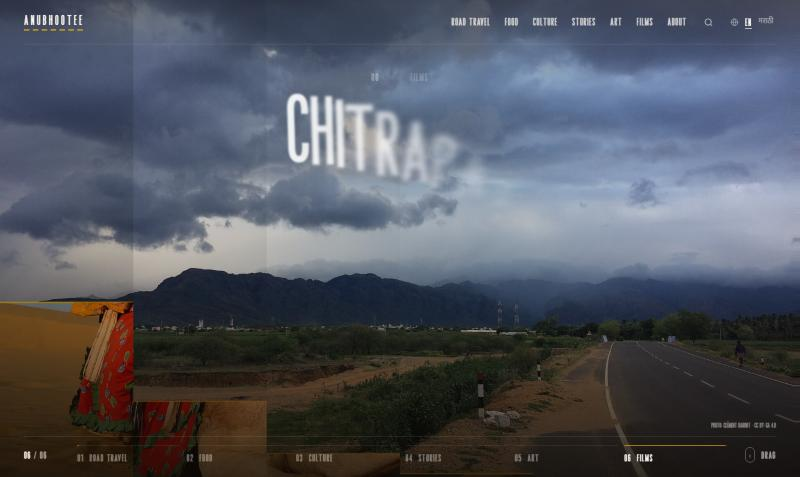
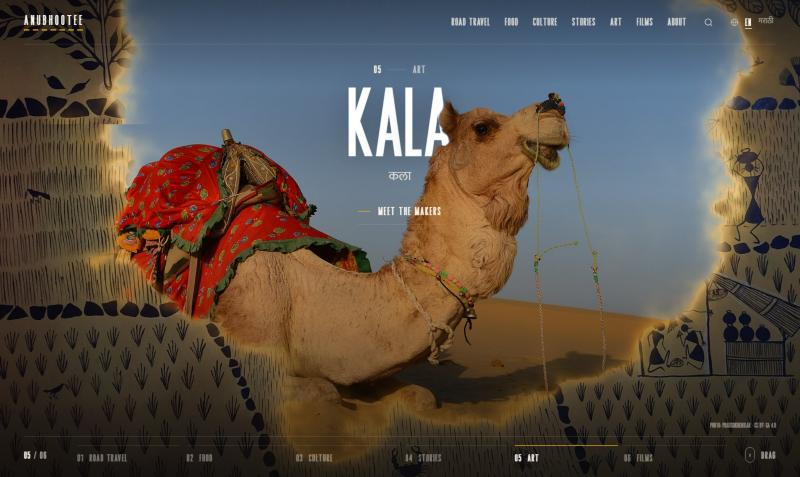
Homepage motion: spring entrance fade, hover zoom, shared-layout page transitions
- Photo transition styles, chosen with ANU_TRANSITION (or ?fx= to preview):
  spring (default, Motion spring fade), ink, columns, mandala, shutter, mosaic, dolly.
  Photo and depth cutout always share the same mask, so the subject stays in front of the title.
- Smooth hover zoom: hovering a chapter link springs the photo closer; gentle mouse drift
  (off on touch and for reduced motion)
- Shared-layout transitions across pages (View Transitions API, like Framer Motion layoutId):
  chapter title -> section heading, story card photo/title -> story hero

diff --git a/anubhootee-web/resources/js/showcase.js b/anubhootee-web/resources/js/showcase.js
@@ -1,10 +1,11 @@
 /* Anubhootee: homepage chapter showcase
  *
  * Transition between chapters:
- *  - Photo: a "column wipe". The new photo rises into place in six staggered vertical
- *    slices, led by a thin turmeric line, while the old photo eases back and darkens (WebGL).
+ *  - Photo: an "ink spread". The new photo blooms out from behind the title like ink soaking
+ *    into paper, with a ragged edge and a warm turmeric glow; the old photo pushes towards you
+ *    and darkens, the new one settles back from a slight zoom (WebGL).
  *  - Depth effect: the photo's subject (AI cutout, see `php artisan anubhootee:depth`) is drawn on
- *    a second canvas above the big title, with exactly the same wipe, so it stays in front of the title.
+ *    a second canvas above the big title, with exactly the same ink mask, so it stays in front of the title.
  *  - Text: animated with Motion (Framer Motion's engine). Letters of the old title lift away with blur;
  *    the new title's letters spring up one by one with a 3D tilt; label, Marathi word and link follow.
  *  - Drag / wheel / arrow keys / the numbered bar all move between chapters. Dragging scrubs the wipe.
@@ -31,6 +32,10 @@ import { animate, stagger } from 'motion';
 	var pad = function (n) { return String(n).padStart(2, '0'); };
 	var clamp = function (v, a, b) { return Math.max(a, Math.min(b, v)); };
 	var EASE_OUT = [0.22, 1, 0.36, 1], EASE_IN = [0.55, 0, 0.75, 0.2], EASE_IN_OUT = [0.76, 0, 0.24, 1];
+
+	/* Photo transition style: ANU_TRANSITION in .env, or ?fx=name in the URL to preview */
+	var FX_NAMES = ['ink', 'columns', 'mandala', 'shutter', 'mosaic', 'dolly', 'spring'];
+	var FX = Math.max(0, FX_NAMES.indexOf(new URLSearchParams(location.search).get('fx') || data.fx || 'ink'));
 
 	/* Same shading as .anu-sc-shade, for the no-WebGL cutout fallback */
 	var SHADE_CSS = 'linear-gradient(0deg, rgba(11,9,7,.78) 0%, rgba(11,9,7,.38) 30%, rgba(11,9,7,0) 60%),'
@@ -115,12 +120,13 @@ import { animate, stagger } from 'motion';
 		markActive(i);
 		busy = true;
 		var remaining = 1 - startP;
-		wipeAnim = animate(startP, 1, {
-			duration: reduced ? 0 : 1.5 * Math.max(0.35, remaining),
-			ease: startP > 0 ? EASE_OUT : EASE_IN_OUT,
-			onUpdate: function (v) { p = v; },
-			onComplete: finish,
-		});
+		var opts = FX === 6 && !reduced
+			// Spring entrance: a real spring (it overshoots slightly, then settles)
+			? { type: 'spring', stiffness: 55, damping: 11, mass: 1, restDelta: 0.001 }
+			: { duration: reduced ? 0 : 1.5 * Math.max(0.35, remaining), ease: startP > 0 ? EASE_OUT : EASE_IN_OUT };
+		opts.onUpdate = function (v) { p = v; };
+		opts.onComplete = finish;
+		wipeAnim = animate(startP, 1, opts);
 	}
 	function goTo(i) {
 		i = clamp(i, 0, N - 1);
@@ -172,6 +178,28 @@ import { animate, stagger } from 'motion';
 		if (['ArrowUp', 'PageUp'].indexOf(e.key) > -1) { e.preventDefault(); goTo(active - 1); }
 	});
 
+	/* ---------- Smooth hover zoom (Motion spring) + gentle mouse drift ----------
+	   Hovering the chapter link eases the photo (and its depth cutout) closer; the photo also
+	   drifts a little with the pointer. Both are shader uniforms, so photo and cutout stay aligned. */
+	var hover = { v: 0 }, hoverAnim = null;
+	var mouse = { x: 0, y: 0, tx: 0, ty: 0 };
+	function setHover(on) {
+		if (reduced) return;
+		if (hoverAnim) hoverAnim.stop();
+		hoverAnim = animate(hover.v, on ? 1 : 0, { type: 'spring', stiffness: 120, damping: 20, onUpdate: function (v) { hover.v = v; } });
+	}
+	Array.prototype.forEach.call(front.querySelectorAll('.anu-sc-more'), function (a) {
+		a.addEventListener('pointerenter', function () { setHover(true); });
+		a.addEventListener('pointerleave', function () { setHover(false); });
+		a.addEventListener('focus', function () { setHover(true); });
+		a.addEventListener('blur', function () { setHover(false); });
+	});
+	window.addEventListener('pointermove', function (e) {
+		if (reduced || e.pointerType === 'touch') return;
+		mouse.tx = (e.clientX / window.innerWidth) * 2 - 1;
+		mouse.ty = (e.clientY / window.innerHeight) * 2 - 1;
+	});
+
 	/* ---------- Depth on/off per chapter (like iOS: off when the subject hides too much of the title) ---------- */
 	var MAX_COVER = 0.42;
 	var depthOn = CH.map(function () { return false; });
@@ -201,38 +229,99 @@ import { animate, stagger } from 'motion';
 
 	/* ---------- WebGL ---------- */
 	var VS = 'attribute vec2 p; varying vec2 vUv; void main(){ vUv = p*0.5+0.5; gl_Position = vec4(p,0.,1.); }';
+	/* Transition styles (uniform fx):
+	   0 ink      – the new photo blooms out from behind the title like ink, ragged edge, warm glow
+	   1 columns  – six vertical slices rise into place, led by a turmeric line
+	   2 mandala  – an eight-petal rangoli shape opens and turns from behind the title
+	   3 shutter  – diagonal blades sweep across like a camera shutter
+	   4 mosaic   – tiles flip to the new photo in a wave from the title, with a pixel dissolve
+	   5 dolly    – a push through the old photo with radial motion blur; the new one pulls into focus
+	   Both the photo and the depth cutout use the same wipe() and coords(), so they always line up. */
 	var COMMON = [
 		'precision highp float;',
 		'varying vec2 vUv;',
 		'uniform sampler2D t0, t1;',
 		'uniform vec2 s0, s1, res;',
-		'uniform float prog, dir, time, on0, on1;',
+		'uniform float prog, dir, time, on0, on1, fx, hov;',
+		'uniform vec2 mouse;', // -1..1 pointer position, for the hover drift
 		'vec2 cover(vec2 uv, vec2 img){ float ra = res.x/res.y, ri = img.x/img.y; vec2 sc = ra > ri ? vec2(1., ri/ra) : vec2(ra/ri, 1.); return (uv-.5)*sc + .5; }',
-		'float ease(float t){ return t < .5 ? 4.*t*t*t : 1. - pow(-2.*t + 2., 3.)/2.; }',
-		// Column wipe: 6 slices, each starting a little after the previous one
-		'void wipe(out float m, out float cp, out float edge){',
-		'  float COLS = 6., STEP = .11;',
-		'  float col = floor(vUv.x*COLS); float k = dir > 0. ? col : COLS-1.-col;',
-		'  cp = ease(clamp(prog*(1. + (COLS-1.)*STEP) - k*STEP, 0., 1.));',
-		'  edge = dir > 0. ? cp*1.004 : 1. - cp*1.004;',
-		'  float aa = 1.5/res.y;',
-		'  m = dir > 0. ? 1. - smoothstep(edge-aa, edge+aa, vUv.y) : smoothstep(edge-aa, edge+aa, vUv.y);',
+		'float ease(float t){ t = clamp(t, 0., 1.); return t < .5 ? 4.*t*t*t : 1. - pow(-2.*t + 2., 3.)/2.; }',
+		'float h(vec2 p){ return fract(sin(dot(p, vec2(127.1,311.7)))*43758.5453); }',
+		'float n(vec2 p){ vec2 i=floor(p), f=fract(p); f=f*f*(3.-2.*f); return mix(mix(h(i),h(i+vec2(1,0)),f.x), mix(h(i+vec2(0,1)),h(i+vec2(1,1)),f.x), f.y); }',
+		'float fbm(vec2 p){ float v=0., a=.5; for(int i=0;i<5;i++){ v+=a*n(p); p*=2.07; a*=.5; } return v; }',
+		'vec2 rot(vec2 p, float a){ float c = cos(a), s = sin(a); return vec2(c*p.x - s*p.y, s*p.x + c*p.y); }',
+		'const vec2 ORIGIN = vec2(.5, .74);', // behind the title
+		// m = how much of the new photo shows (0..1), cp = eased progress, glow = edge highlight for the photo layer
+		'void wipe(out float m, out float cp, out float glow){',
+		'  cp = ease(prog); glow = 0.;',
+		'  float A = res.x/res.y; float live = sin(3.14159*clamp(prog, 0., 1.)); float maxd = length(vec2(A, 1.));',
+		'  vec2 o = fx == 0. ? vec2(.5, dir > 0. ? .74 : .26) : ORIGIN;',
+		'  vec2 d2 = (vUv - o) * vec2(A, 1.); float d = length(d2); float th = atan(d2.y, d2.x);',
+		'  if (fx < .5) {', // ink
+		'    float f = d + fbm(d2*3.2 + vec2(prog*1.5, -prog))*.38 + fbm(vec2(th*2.6, d*4. - prog*3.))*.22;',
+		'    float e = f - (cp*(maxd + .7) - .05);',
+		'    m = 1. - smoothstep(-.035, .01, e); glow = live*exp(-abs(e + .012)*38.)*.55;',
+		'  } else if (fx < 1.5) {', // columns
+		'    float col = floor(vUv.x*6.); float k = dir > 0. ? col : 5.-col;',
+		'    float c = ease(clamp(prog*1.55 - k*.11, 0., 1.)); float e = dir > 0. ? c*1.004 : 1. - c*1.004; float aa = 1.5/res.y;',
+		'    m = dir > 0. ? 1. - smoothstep(e-aa, e+aa, vUv.y) : smoothstep(e-aa, e+aa, vUv.y);',
+		'    glow = step(.001, c)*step(c, .999)*(1. - smoothstep(0., 2.2/res.y, abs(vUv.y - e)))*1.2;',
+		'  } else if (fx < 2.5) {', // mandala
+		'    float r0 = (1. - cp)*1.2*dir;',
+		'    float petal = 1. + .2*cos(8.*(th + r0)) + .07*cos(16.*(th - r0*.5));',
+		'    float e = d/petal - (cp*(maxd*1.4 + .05) - .02);',
+		'    m = 1. - smoothstep(-.002, .002, e);',
+		'    glow = live*((1. - smoothstep(0., .005, abs(e)))*1.3 + exp(-abs(e)*55.)*.22);',
+		'  } else if (fx < 3.5) {', // shutter
+		'    vec2 q = (vUv - .5)*vec2(A, 1.); vec2 ax = normalize(vec2(1., .55)); vec2 ay = vec2(-ax.y, ax.x);',
+		'    float half_ = .5*(abs(A*ax.x) + abs(ax.y)), halfT = .5*(abs(A*ay.x) + abs(ay.y));',
+		'    float s = (dot(q, ax) + half_)/(2.*half_), t = (dot(q, ay) + halfT)/(2.*halfT);',
+		'    float bi = floor(clamp(t, 0., .999)*7.); float k = dir > 0. ? bi : 6.-bi;',
+		'    float c = ease(clamp(prog*1.48 - k*.08, 0., 1.)); float e = dir > 0. ? c : 1. - c; float aa = .0015;',
+		'    m = dir > 0. ? 1. - smoothstep(e-aa, e+aa, s) : smoothstep(e-aa, e+aa, s);',
+		'    glow = step(.001, c)*step(c, .999)*(1. - smoothstep(0., .003, abs(s - e)))*1.2;',
+		'  } else if (fx < 4.5) {', // mosaic
+		'    vec2 g = vec2(22.*A, 22.); vec2 cell = floor(vUv*g); vec2 cc = (cell + .5)/g;',
+		'    float th_ = length((cc - ORIGIN)*vec2(A, 1.))*.45 + h(cell)*.35;',
+		'    float front = cp*1.15 - .05;',
+		'    m = step(th_, front);',
+		'    glow = live*(1. - smoothstep(0., .07, abs(th_ - front)))*.55;',
+		'  } else if (fx < 5.5) {', // dolly
+		'    m = smoothstep(.42, .58, cp);',
+		'    glow = pow(live, 10.)*.3;',
+		'  } else {', // spring: soft fade; the spring overshoot shows in coords()
+		'    m = smoothstep(0., .75, clamp(prog, 0., 1.));',
+		'  }',
 		'}',
 		'void coords(float cp, out vec2 ua, out vec2 ub){',
 		'  vec2 base = (vUv-.5)*(1. - .03*sin(time*.12)) + .5;', // slow breathing zoom
-		'  ua = (base-.5)*(1. - cp*.07) + .5;',                   // old photo eases back
-		'  ub = base + vec2(0., dir*(1.-cp)*.2);',                // new photo rises (or falls) into place
+		'  base = (base-ORIGIN)*(1. - hov*.045) + ORIGIN - mouse*vec2(.012, -.008)*(.35 + hov);', // hover zoom + drift
+		'  if (fx > 3.5 && fx < 4.5) {',                          // mosaic: pixel dissolve in the middle of the move
+		'    float px = sin(3.14159*clamp(prog, 0., 1.)); float A = res.x/res.y;',
+		'    if (px > .02) { float q = mix(900., 22., pow(px, .6)); vec2 g = vec2(q*A, q); base = (floor(base*g) + .5)/g; }',
+		'  }',
+		'  if (fx < .5) { ua = (base-.5)*(1. - cp*.12) + .5; ub = (base-.5)*(1.14 - cp*.14) + .5; }',
+		'  else if (fx < 1.5) { ua = (base-.5)*(1. - cp*.07) + .5; ub = base + vec2(0., dir*(1.-cp)*.2); }',
+		'  else if (fx < 2.5) { ua = (base-.5)*(1. - cp*.1) + .5; ub = rot((base-ORIGIN)*(1.12 - .12*cp), (1.-cp)*.22*dir) + ORIGIN; }',
+		'  else if (fx < 3.5) { vec2 sl = vec2(.55, .3)*dir; ua = base + sl*cp*.06; ub = base - sl*(1.-cp)*.14; }',
+		'  else if (fx < 4.5) { ua = base; ub = base; }',
+		'  else if (fx < 5.5) { ua = (base-ORIGIN)*(1. - cp*.45) + ORIGIN; ub = (base-ORIGIN)*(.62 + .38*cp) + ORIGIN; }',
+		'  else { ua = (base-.5)*(1. - clamp(prog, 0., 1.)*.05) + .5; ub = (base-.5)*(1. + (1. - prog)*.14) + .5; }', // spring: settles (and overshoots) from a zoom
 		'}',
+		// Radial motion blur towards the title (dolly only), identical for photo and cutout
+		'vec4 tap(sampler2D t, vec2 uv, vec2 sz, float k){',
+		'  if (k < .0005) return texture2D(t, cover(uv, sz));',
+		'  vec4 acc = vec4(0.); for (int i = 0; i < 8; i++) { acc += texture2D(t, cover(mix(uv, ORIGIN, float(i)/7.*k), sz)); } return acc/8.;',
+		'}',
+		'float blurK(float cp){ return (fx > 4.5 && fx < 5.5) ? sin(3.14159*cp)*.09 : 0.; }', // dolly only
 		'vec3 grade(vec3 col){ col = mix(col, col*vec3(1.04,.99,.94), .4); float v = smoothstep(1.3, .4, length(vUv-.5)*1.4); return col*mix(.75, 1., v); }'
 	].join('\n');
 	var FS_PHOTO = COMMON + [
-		'void main(){ float m, cp, edge; wipe(m, cp, edge); vec2 ua, ub; coords(cp, ua, ub);',
-		'  vec3 a = texture2D(t0, cover(ua, s0)).rgb * (1. - cp*.5);',
-		'  vec3 b = texture2D(t1, cover(ub, s1)).rgb;',
+		'void main(){ float m, cp, glow; wipe(m, cp, glow); vec2 ua, ub; coords(cp, ua, ub); float k = blurK(cp);',
+		'  vec3 a = tap(t0, ua, s0, k).rgb * (1. - cp*.55);',
+		'  vec3 b = tap(t1, ub, s1, k).rgb;',
 		'  vec3 col = grade(mix(a, b, m));',
-		'  float live = step(.001, cp) * step(cp, .999);',          // turmeric line on the moving edge
-		'  float line = live * (1. - smoothstep(0., 2.2/res.y, abs(vUv.y - edge)));',
-		'  col = mix(col, vec3(.96,.72,0.), line*.95);',
+		'  col += vec3(.96,.62,.08) * glow;',                    // turmeric edge light
 		'  gl_FragColor = vec4(col, 1.);',
 		'}'
 	].join('\n');
@@ -242,9 +331,9 @@ import { animate, stagger } from 'motion';
 		'  float r = .32*(1.-clamp(length(vec2((vUv.x-.5)/.6,(yt-.26)/.4)),0.,1.));',
 		'  float t = yt < .18 ? mix(.45,0.,yt/.18) : 0.;',
 		'  col = mix(col, ink, b); col = mix(col, ink, r); col = mix(col, ink, t); return col; }',
-		'void main(){ float m, cp, edge; wipe(m, cp, edge); vec2 ua, ub; coords(cp, ua, ub);',
-		'  vec4 a = texture2D(t0, cover(ua, s0)); a.rgb *= 1. - cp*.5; a.a *= on0;',
-		'  vec4 b = texture2D(t1, cover(ub, s1)); b.a *= on1;',
+		'void main(){ float m, cp, glow; wipe(m, cp, glow); vec2 ua, ub; coords(cp, ua, ub); float k = blurK(cp);',
+		'  vec4 a = tap(t0, ua, s0, k); a.rgb *= 1. - cp*.55; a.a *= on0;',
+		'  vec4 b = tap(t1, ub, s1, k); b.a *= on1;',
 		'  vec4 c = vec4(a.rgb*a.a, a.a)*(1.-m) + vec4(b.rgb*b.a, b.a)*m;',
 		'  vec3 rgb = c.a > .001 ? c.rgb / c.a : vec3(0.);',
 		'  gl_FragColor = vec4(shade(grade(rgb))*c.a, c.a);',
@@ -266,8 +355,9 @@ import { animate, stagger } from 'motion';
 		gl.bufferData(gl.ARRAY_BUFFER, new Float32Array([-1, -1, 1, -1, -1, 1, 1, 1]), gl.STATIC_DRAW);
 		var loc = gl.getAttribLocation(prog, 'p'); gl.enableVertexAttribArray(loc); gl.vertexAttribPointer(loc, 2, gl.FLOAT, false, 0, 0);
 		var uni = {};
-		['t0', 't1', 's0', 's1', 'res', 'prog', 'dir', 'time', 'on0', 'on1'].forEach(function (k) { uni[k] = gl.getUniformLocation(prog, k); });
+		['t0', 't1', 's0', 's1', 'res', 'prog', 'dir', 'time', 'on0', 'on1', 'fx', 'hov', 'mouse'].forEach(function (k) { uni[k] = gl.getUniformLocation(prog, k); });
 		gl.uniform1i(uni.t0, 0); gl.uniform1i(uni.t1, 1);
+		gl.uniform1f(uni.fx, FX);
 		gl.pixelStorei(gl.UNPACK_FLIP_Y_WEBGL, true);
 		var textures = [];
 		this.sizes = [];
@@ -298,6 +388,7 @@ import { animate, stagger } from 'motion';
 			gl.uniform2f(uni.s0, a[0], a[1]); gl.uniform2f(uni.s1, b[0], b[1]);
 			gl.uniform1f(uni.prog, pr); gl.uniform1f(uni.dir, d); gl.uniform1f(uni.time, time);
 			gl.uniform1f(uni.on0, on0); gl.uniform1f(uni.on1, on1);
+			gl.uniform1f(uni.hov, hover.v); gl.uniform2f(uni.mouse, mouse.x, mouse.y);
 			gl.drawArrays(gl.TRIANGLE_STRIP, 0, 4);
 		};
 		this.resize();
@@ -351,6 +442,7 @@ import { animate, stagger } from 'motion';
 
 		var photoSize = function (i) { return photoGL.sizes[i]; };
 		function loop(now) {
+			mouse.x += (mouse.tx - mouse.x) * 0.05; mouse.y += (mouse.ty - mouse.y) * 0.05; // smooth drift
 			if (photoGL) {
 				var time = reduced ? 0 : now / 1000;
 				photoGL.draw(from, to, p, dir, time, 1, 1, photoSize);

diff --git a/anubhootee-web/resources/css/app.css b/anubhootee-web/resources/css/app.css
@@ -301,6 +301,26 @@ body:has(.anu-showcase) .anu-nav { gap: 30px; font-size: 11px; letter-spacing: .
 [x-cloak] { display: none !important; }
 
 /* =========================================================
+   Shared-layout page transitions (View Transitions API, like Framer Motion's layoutId across pages):
+   - homepage chapter link → section page: the big title glides into the section heading
+   - story card / "next story" → story page: the photo expands into the hero, the title flies into the headline
+   Names on the departing page are set by JS on click; the arriving page names them here.
+   ========================================================= */
+@view-transition { navigation: auto; }
+::view-transition-group(*) { animation-duration: .8s; animation-timing-function: cubic-bezier(.22, 1, .36, 1); }
+::view-transition-old(root) { animation: .35s ease both anu-vt-out; }
+::view-transition-new(root) { animation: .55s .15s ease both anu-vt-in; }
+@keyframes anu-vt-out { to { opacity: 0; } }
+@keyframes anu-vt-in { from { opacity: 0; } }
+.anu-archive h1 { view-transition-name: anu-title; }
+.anu-hero > img { view-transition-name: anu-photo; }
+.anu-hero:not(.has-depth) .anu-hero__inner--front h1,
+.anu-hero.has-depth .anu-hero__inner--back h1 { view-transition-name: anu-heading; }
+@media (prefers-reduced-motion: reduce) {
+	@view-transition { navigation: none; }
+}
+
+/* =========================================================
    Headline font everywhere: every big heading uses --font-display.
    Devanagari in a heading falls back to Mukta automatically.
    The font has one weight, so faux-bold is switched off.

diff --git a/anubhootee-web/resources/js/app.js b/anubhootee-web/resources/js/app.js
@@ -71,6 +71,29 @@ Alpine.start();
 		window.addEventListener('resize', () => { clearTimeout(t); t = setTimeout(check, 150); });
 	}
 
+	/* Shared-layout transitions: name the clicked element so the next page can morph it into place */
+	document.addEventListener('click', (e) => {
+		if (e.defaultPrevented || e.metaKey || e.ctrlKey || e.shiftKey || e.button !== 0) return;
+		const card = e.target.closest('.anu-card, .anu-next');
+		if (card) {
+			const img = card.querySelector('img');
+			const title = card.querySelector('h3, .anu-next__title');
+			if (img) img.style.viewTransitionName = 'anu-photo';
+			if (title) title.style.viewTransitionName = 'anu-heading';
+			return;
+		}
+		const more = e.target.closest('.anu-sc-slides--front .anu-sc-more');
+		if (more) {
+			const i = Array.prototype.indexOf.call(more.closest('.anu-sc-slides').children, more.closest('.anu-sc-slide'));
+			const title = document.querySelector('.anu-sc-slides--back').children[i]?.querySelector('.anu-sc-title');
+			if (title) title.style.viewTransitionName = 'anu-title';
+		}
+	}, true);
+	// Coming back with the browser's Back button: clear the names so they don't clash
+	window.addEventListener('pageshow', () => {
+		document.querySelectorAll('[style*="view-transition-name"]').forEach((el) => { el.style.viewTransitionName = ''; });
+	});
+
 	document.addEventListener('click', (e) => {
 		const btn = e.target.closest('[data-anu-copy]');
 		if (!btn) return;

diff --git a/anubhootee-web/resources/views/home.blade.php b/anubhootee-web/resources/views/home.blade.php
@@ -57,7 +57,7 @@
                 <div class="anu-sc-hint" aria-hidden="true"><span class="anu-sc-hint__icon"></span>{{ Lang::isMarathi() ? 'ओढा' : 'Drag' }}</div>
             </div>
 
-            <script type="application/json" class="anu-sc-data">{!! json_encode(['chapters' => $chapters, 'photo' => __('Photo')], JSON_HEX_TAG | JSON_HEX_AMP | JSON_UNESCAPED_UNICODE | JSON_UNESCAPED_SLASHES) !!}</script>
+            <script type="application/json" class="anu-sc-data">{!! json_encode(['chapters' => $chapters, 'photo' => __('Photo'), 'fx' => config('anubhootee.transition')], JSON_HEX_TAG | JSON_HEX_AMP | JSON_UNESCAPED_UNICODE | JSON_UNESCAPED_SLASHES) !!}</script>
         </div>
     @endif
 @endsection

diff --git a/anubhootee-web/config/anubhootee.php b/anubhootee-web/config/anubhootee.php
@@ -10,4 +10,7 @@ return [
         'Facebook' => env('ANU_FACEBOOK'),
     ],
     'email' => env('ANU_EMAIL', 'hello@yourdomain.com'),
+
+    // Homepage photo transition: spring, ink, columns, mandala, shutter, mosaic or dolly
+    'transition' => env('ANU_TRANSITION', 'spring'),
 ];
